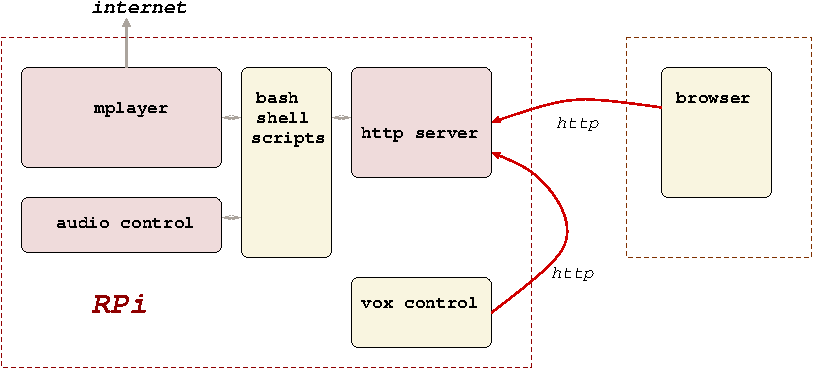
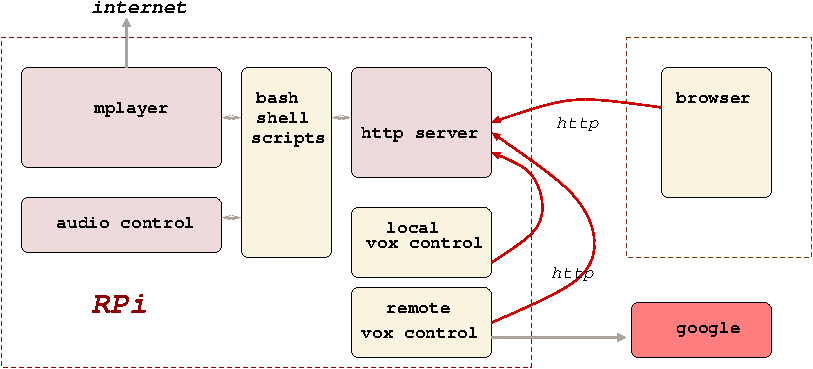
Doc updated

diff --git a/www/doc/implementation.html b/www/doc/implementation.html
@@ -38,8 +38,11 @@
               </li>
               <li>
                 Le répertoire <code>vox</code> contient de code
-                d'analyse des commandes vocales. La version actuelle
-                est dans le sous-répertoire <code>ps</code>.
+                d'analyse des commandes vocales. La première version
+                basée sur le traitement local est dans le
+                sous-répertoire <code>ps</code>. La nouvelle version
+                utilisant le service google est dans le
+                sous-répertoire <code>fr</code>.
               </li>
               <li>
                 Le répertoire <code>bin</code> contient tous les

diff --git a/www/doc/misc.html b/www/doc/misc.html
@@ -88,10 +88,16 @@
 
           <dl>
 
+            <dt>17 Février 2015</dt>
+            <dd>
+              La doc a été un peu développée. De nouvelles commandes
+              vocales ont été implémentées.
+            </dd>
+
             <dt>05 Janvier 2015</dt>
             <dd>
               La version 2.0 est en ligne. La reconnaissance vocale
-              est basée sur l'API de google. Elle comprend le français..
+              est basée sur l'API de google. Elle comprend le français.
             </dd>
 
             <dt>06 Août 2014</dt>

diff --git a/www/doc/install.html b/www/doc/install.html
@@ -259,7 +259,10 @@
                 </span>
                 <br>
                 Il est malgré tout prudent de vérifier que tout refonctionne
-                correctement après un redémarrage de la rpi.
+                correctement après un redémarrage de la rpi. On
+                vérifiera en particulier que la date est correctement
+                mise car il faut laisser le temps à <code>ntp</code>
+                de se synchroniser correctement.
               </li> 
             </ul>
           </p>
